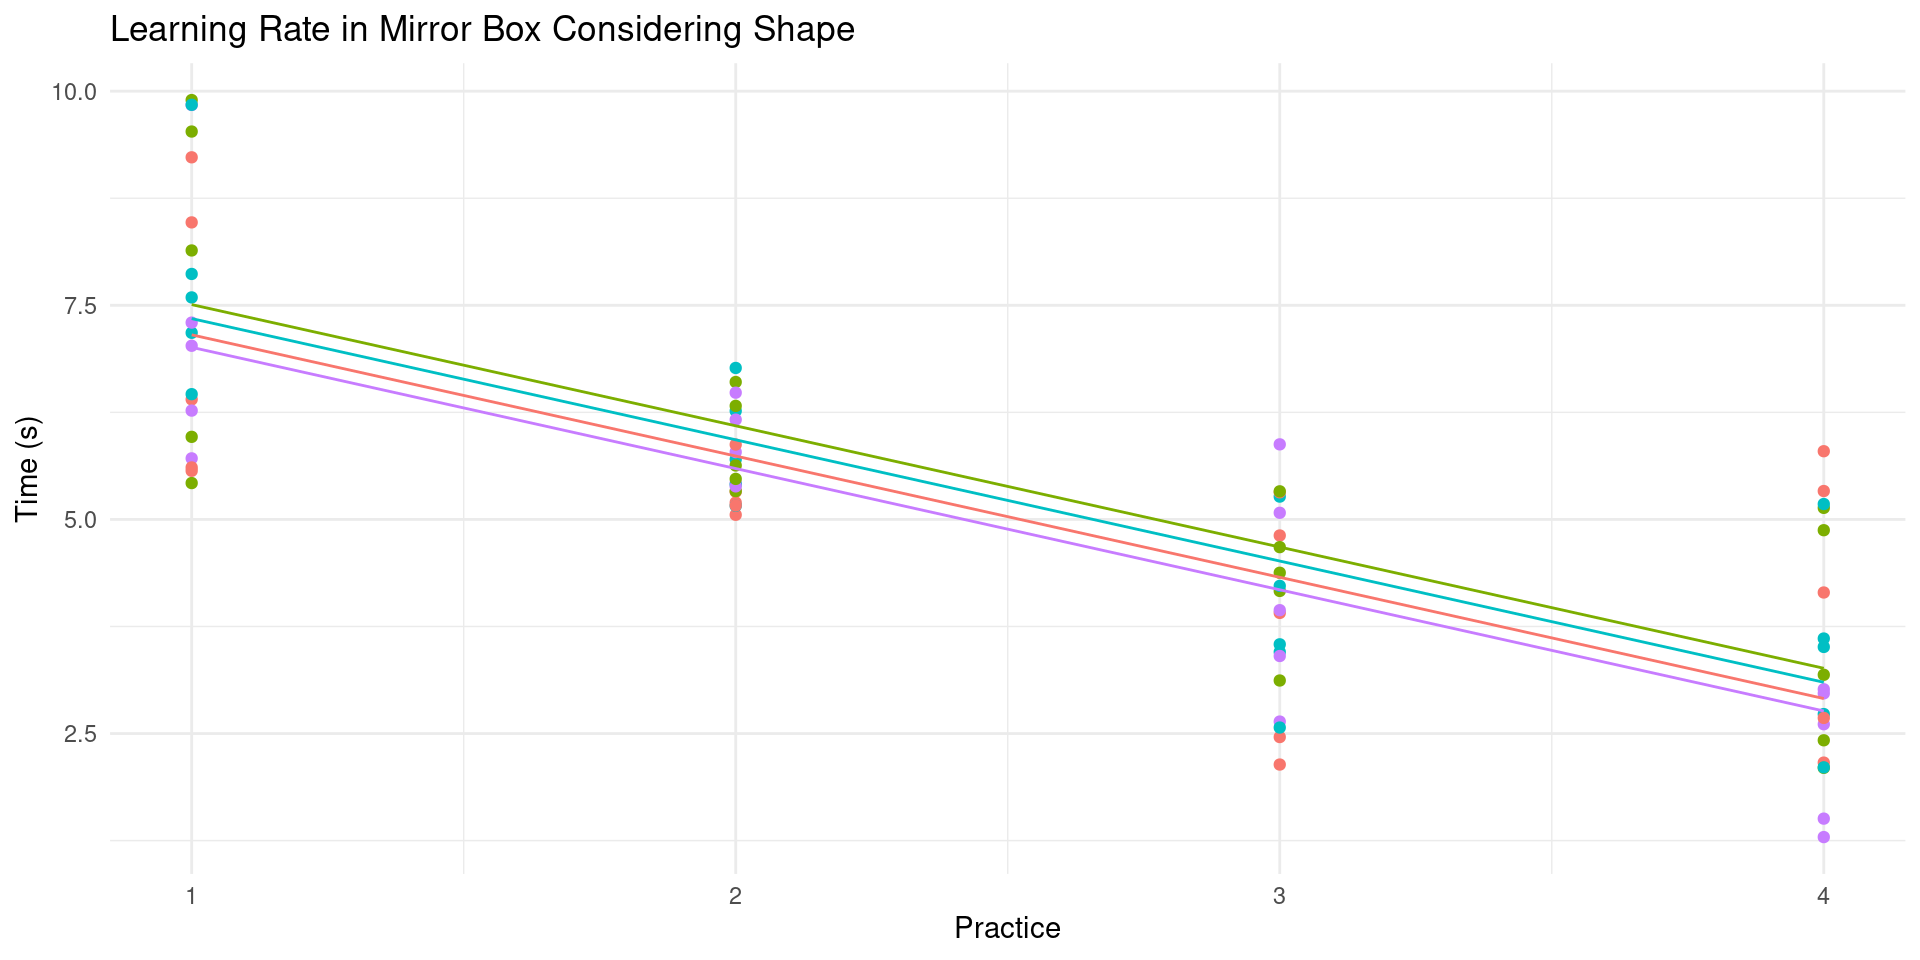
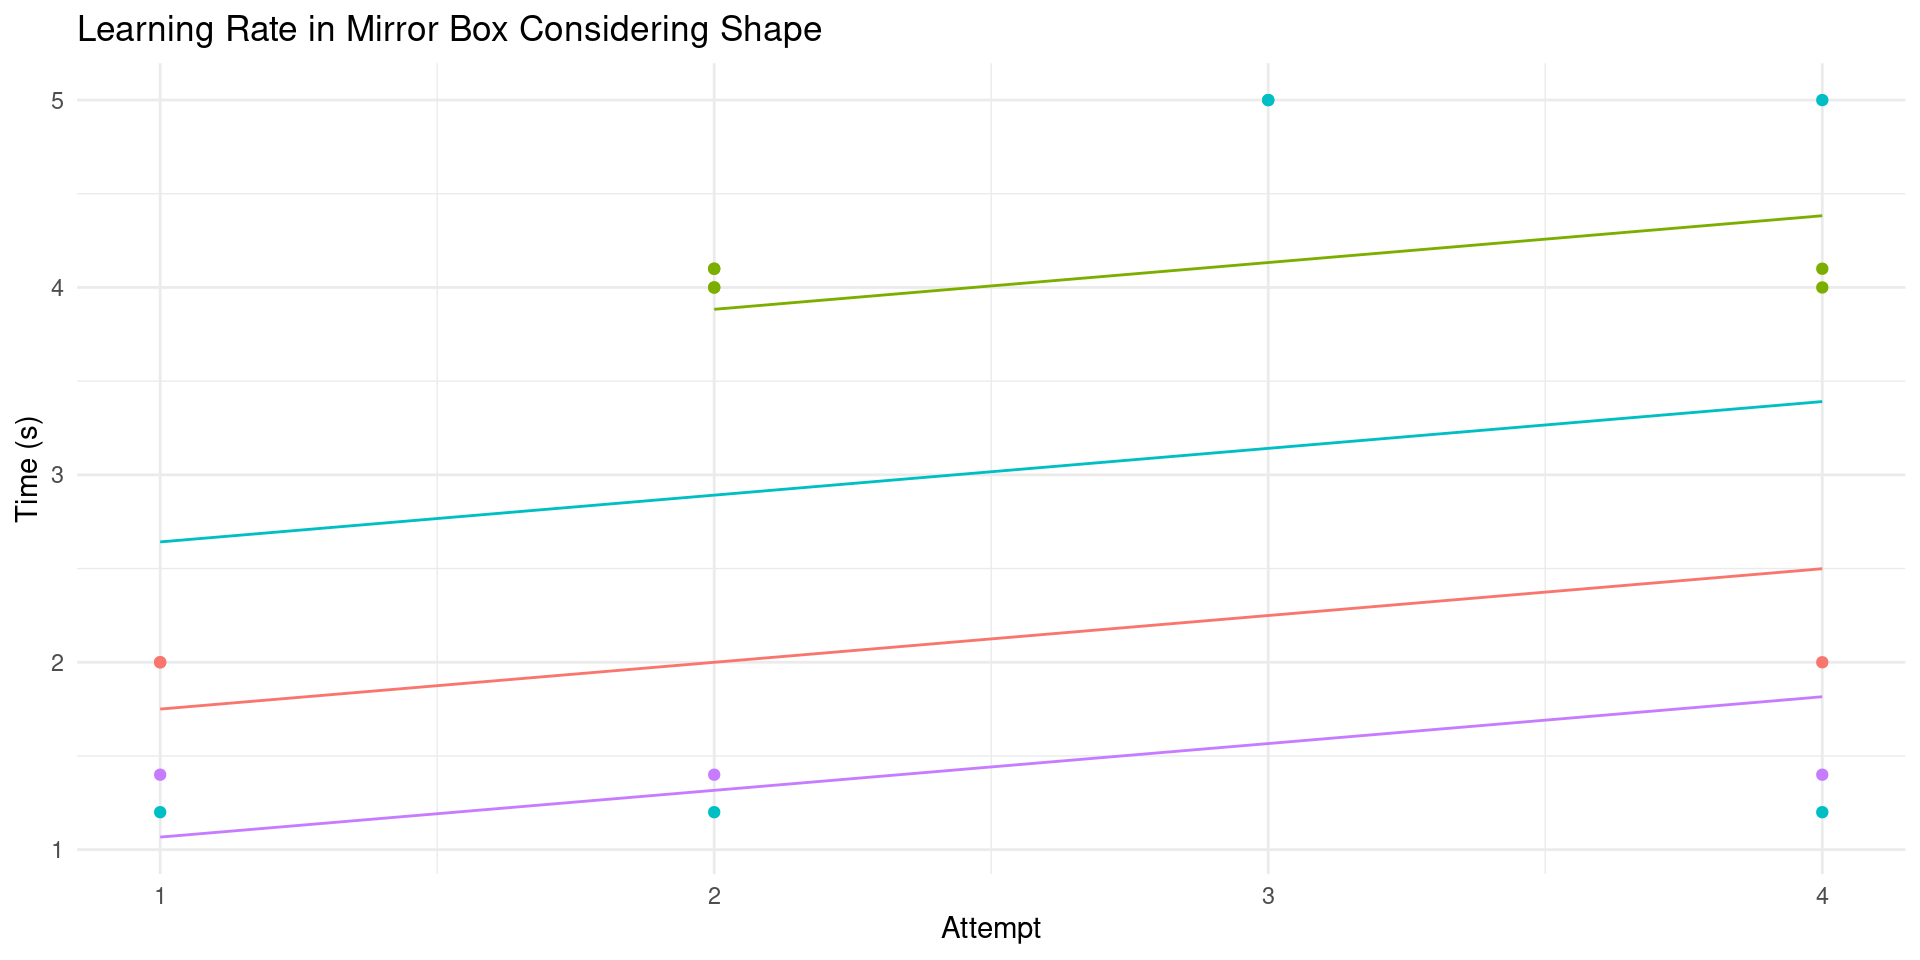
Working Version

diff --git a/Nog_event06122023.html b/Nog_event06122023.html
@@ -374,33 +374,33 @@
 <img data-src="Nog_event06122023_files/figure-revealjs/graph1-1.png" width="960" class="r-stretch"></section>
 <section id="mirror-box-results-statistics" class="slide level2">
 <h2>Mirror Box Results Statistics</h2>
-<p>Time = -1.4154428*Position + 8.6695714</p>
+<p>Time = 0.3804545*Attempt + 1.9777273</p>
 <div class="cell">
 <div class="cell-output cell-output-stdout">
 <pre><code>
 Call:
-lm(formula = `Time (s)` ~ Practice, data = mirror_df)
+lm(formula = `Time (s)` ~ Attempt, data = mirror_df)
 
 Residuals:
-    Min      1Q  Median      3Q     Max 
--2.2853 -0.8056 -0.2042  0.6443  2.7885 
+     Min       1Q   Median       3Q      Max 
+-2.29955 -1.29352  0.07114  1.33636  1.88091 
 
 Coefficients:
-            Estimate Std. Error t value Pr(&gt;|t|)    
-(Intercept)   8.6696     0.3326   26.07   &lt;2e-16 ***
-Practice     -1.4154     0.1215  -11.65   &lt;2e-16 ***
+            Estimate Std. Error t value Pr(&gt;|t|)  
+(Intercept)   1.9777     0.8456   2.339   0.0326 *
+Attempt       0.3805     0.3010   1.264   0.2244  
 ---
 Signif. codes:  0 '***' 0.001 '**' 0.01 '*' 0.05 '.' 0.1 ' ' 1
 
-Residual standard error: 1.215 on 78 degrees of freedom
-Multiple R-squared:  0.6352,    Adjusted R-squared:  0.6305 
-F-statistic: 135.8 on 1 and 78 DF,  p-value: &lt; 2.2e-16</code></pre>
+Residual standard error: 1.488 on 16 degrees of freedom
+Multiple R-squared:  0.09076,   Adjusted R-squared:  0.03393 
+F-statistic: 1.597 on 1 and 16 DF,  p-value: 0.2244</code></pre>
 </div>
 </div>
 </section>
 <section id="mirror-box-results-statistics-1" class="slide level2">
 <h2>Mirror Box Results Statistics</h2>
-<p>Time = -1.4154428*Position + 8.6695714</p>
+<p>Time = 0.3804545*Attempt + 1.9777273</p>
 
 <img data-src="Nog_event06122023_files/figure-revealjs/graph2-1.png" width="960" class="r-stretch"></section>
 <section id="mirror-box-results-statistics-2" class="slide level2">
@@ -409,44 +409,44 @@ F-statistic: 135.8 on 1 and 78 DF,  p-value: &lt; 2.2e-16</code></pre>
 <div class="cell">
 
 </div>
-<p>Time = -1.4154428*Position + 8.4245342 + Shape</p>
+<p>Time = 0.249635*Attempt + 1.5007299 + Shape</p>
 <div class="cell">
 <div class="cell-output cell-output-stdout">
 <pre><code>
 Call:
-lm(formula = `Time (s)` ~ Practice + Shape.1 + Shape.2 + Shape.3, 
+lm(formula = `Time (s)` ~ Attempt + Shape.1 + Shape.2 + Shape.3, 
     data = mirror_df)
 
 Residuals:
     Min      1Q  Median      3Q     Max 
--2.1860 -0.7640 -0.1892  0.5866  2.8878 
+-2.1912 -0.4078  0.1164  0.2496  1.8584 
 
 Coefficients:
-            Estimate Std. Error t value Pr(&gt;|t|)    
-(Intercept)   8.4245     0.4102  20.535   &lt;2e-16 ***
-Practice     -1.4154     0.1223 -11.572   &lt;2e-16 ***
-Shape.1TRUE   0.1457     0.3868   0.377    0.707    
-Shape.2TRUE   0.4989     0.3868   1.290    0.201    
-Shape.3TRUE   0.3355     0.3868   0.867    0.389    
+            Estimate Std. Error t value Pr(&gt;|t|)  
+(Intercept)   1.5007     0.8901   1.686   0.1156  
+Attempt       0.2496     0.2612   0.956   0.3567  
+Shape.1TRUE   0.8920     0.9090   0.981   0.3444  
+Shape.2TRUE   1.8836     0.8996   2.094   0.0564 .
+Shape.3TRUE  -0.6832     1.0228  -0.668   0.5158  
 ---
 Signif. codes:  0 '***' 0.001 '**' 0.01 '*' 0.05 '.' 0.1 ' ' 1
 
-Residual standard error: 1.223 on 75 degrees of freedom
-Multiple R-squared:  0.6443,    Adjusted R-squared:  0.6253 
-F-statistic: 33.96 on 4 and 75 DF,  p-value: 3.702e-16</code></pre>
+Residual standard error: 1.248 on 13 degrees of freedom
+Multiple R-squared:  0.4805,    Adjusted R-squared:  0.3207 
+F-statistic: 3.006 on 4 and 13 DF,  p-value: 0.05841</code></pre>
 </div>
 </div>
 </section>
 <section id="mirror-box-results-statistics-3" class="slide level2">
 <h2>Mirror Box Results Statistics</h2>
 <h3 id="accounting-for-the-shape-being-drawn-1">Accounting for the shape being drawn</h3>
-<p>Time = -1.4154428*Position + 8.4245342 + Shape</p>
+<p>Time = 0.249635*Attempt + 1.5007299 + Shape</p>
 
 <img data-src="Nog_event06122023_files/figure-revealjs/graph3-1.png" width="960" class="r-stretch"></section>
 <section id="mirror-box-results-statistics-4" class="slide level2">
 <h2>Mirror Box Results Statistics</h2>
 <h3 id="accounting-for-the-shape-being-drawn-2">Accounting for the shape being drawn</h3>
-<p>Time = -1.4154428*Position + 8.4245342 + Shape</p>
+<p>Time = 0.249635*Attempt + 1.5007299 + Shape</p>
 
 <img data-src="Nog_event06122023_files/figure-revealjs/graph4-1.png" width="960" class="r-stretch"></section></section>
 <section>
@@ -467,33 +467,31 @@ F-statistic: 33.96 on 4 and 75 DF,  p-value: 3.702e-16</code></pre>
 <img data-src="Nog_event06122023_files/figure-revealjs/graph1ch-1.png" width="960" class="r-stretch"></section>
 <section id="cornhole-results-statistics" class="slide level2">
 <h2>Cornhole Results Statistics</h2>
-<p>Score = -1.1333381*Practice + 7.9146708</p>
+<p>Score = -0.5*Trial + 2.6666667</p>
 <div class="cell">
 <div class="cell-output cell-output-stdout">
 <pre><code>
 Call:
-lm(formula = Score ~ Practice, data = ch_df)
+lm(formula = Score ~ Trial, data = ch_df)
 
 Residuals:
-    Min      1Q  Median      3Q     Max 
--2.4124 -1.2198  0.1012  0.9600  3.1791 
+      1       2       3 
+-0.1667 -0.1667  0.3333 
 
 Coefficients:
-            Estimate Std. Error t value Pr(&gt;|t|)    
-(Intercept)   7.9147     0.3836   20.63  &lt; 2e-16 ***
-Practice     -1.1333     0.1401   -8.09 6.29e-12 ***
----
-Signif. codes:  0 '***' 0.001 '**' 0.01 '*' 0.05 '.' 0.1 ' ' 1
+            Estimate Std. Error t value Pr(&gt;|t|)
+(Intercept)   2.6667     0.6236   4.276    0.146
+Trial        -0.5000     0.2887  -1.732    0.333
 
-Residual standard error: 1.401 on 78 degrees of freedom
-Multiple R-squared:  0.4563,    Adjusted R-squared:  0.4493 
-F-statistic: 65.45 on 1 and 78 DF,  p-value: 6.289e-12</code></pre>
+Residual standard error: 0.4082 on 1 degrees of freedom
+Multiple R-squared:   0.75, Adjusted R-squared:    0.5 
+F-statistic:     3 on 1 and 1 DF,  p-value: 0.3333</code></pre>
 </div>
 </div>
 </section>
 <section id="cornhole-results-statistics-1" class="slide level2">
 <h2>Cornhole Results Statistics</h2>
-<p>Score = -1.1333381*Practice + 7.9146708</p>
+<p>Score = -0.5*Trial + 2.6666667</p>
 
 <img data-src="Nog_event06122023_files/figure-revealjs/graph2ch-1.png" width="960" class="r-stretch"><div class="footer footer-default">
 
